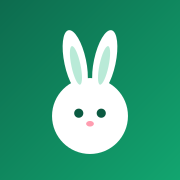
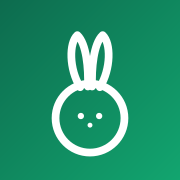
style: mascote coelho em contorno (line art)
- Ícone do app, PNGs, maskable, apple e favicon refeitos com o coelho em
  contorno (traço branco no fundo verde) no lugar do preenchimento sólido.
- BunnyMark reescrito como line art (viewBox 24, traço proporcional) para
  ficar nítido em tamanhos pequenos na sidebar e no login/cadastro.

Claude-Session: https://claude.ai/code/session_01RxQKGNFL2T9uyoiaaERw6m

Changed region(s): [[0.2778, 0.1667, 0.7222, 0.8889]]

diff --git a/frontend/components/ui/BunnyMark.tsx b/frontend/components/ui/BunnyMark.tsx
@@ -1,19 +1,19 @@
 /**
- * Marca do app: coelho minimalista. Usa `currentColor` no corpo (herda a cor
- * do container, ex.: branco sobre o quadrado accent) e a cor do accent nos
- * olhos, criando o efeito de "olhos vazados" quando exibido sobre o accent.
+ * Marca do app: coelho em contorno (line art). Usa `currentColor`, então herda
+ * a cor do container (ex.: branco sobre o quadrado accent). Otimizado para
+ * tamanhos pequenos (viewBox 24, traço proporcional).
  */
 export function BunnyMark({ className }: { className?: string }) {
   return (
-    <svg viewBox="0 0 512 512" className={className} aria-hidden="true">
-      <g fill="currentColor">
-        <ellipse cx="214" cy="176" rx="30" ry="90" transform="rotate(-12 214 176)" />
-        <ellipse cx="298" cy="176" rx="30" ry="90" transform="rotate(12 298 176)" />
-        <circle cx="256" cy="330" r="106" />
+    <svg viewBox="0 0 24 24" fill="none" className={className} aria-hidden="true">
+      <g stroke="currentColor" strokeWidth="1.7" strokeLinejoin="round" strokeLinecap="round">
+        <circle cx="12" cy="15.4" r="4.7" />
+        <path d="M10.7 11.4 C 9.2 8.9, 9.2 5.3, 10.3 4.2 C 11.5 5.4, 11.8 8.9, 11.7 11.2" />
+        <path d="M13.3 11.4 C 14.8 8.9, 14.8 5.3, 13.7 4.2 C 12.5 5.4, 12.2 8.9, 12.3 11.2" />
       </g>
-      <g fill="var(--color-accent)">
-        <circle cx="225" cy="322" r="12" />
-        <circle cx="287" cy="322" r="12" />
+      <g fill="currentColor">
+        <circle cx="10.5" cy="15" r=".85" />
+        <circle cx="13.5" cy="15" r=".85" />
       </g>
     </svg>
   );
